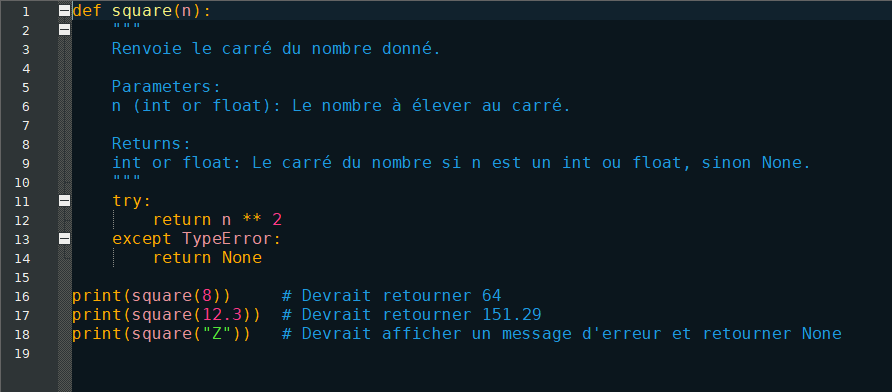
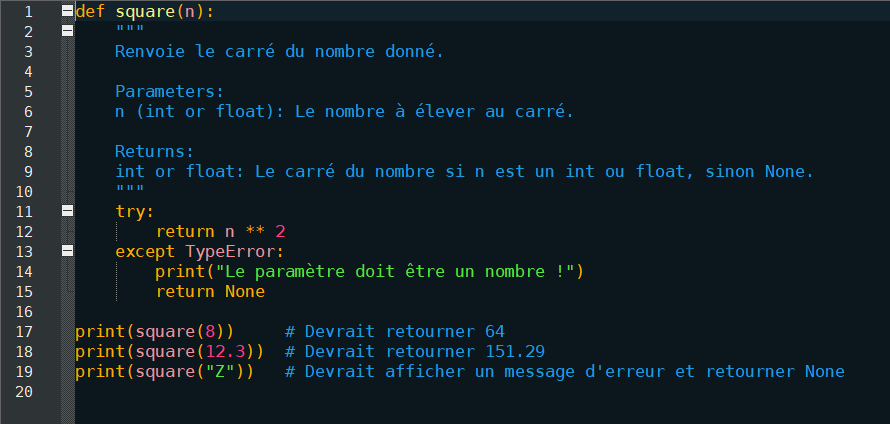
corrections

diff --git a/Exercice03/index.py b/Exercice03/index.py
@@ -1,14 +1,6 @@
 words = ["python", "programmation", "langage", "ordinateur", "apprentissage"]
-vowel_counts = []
+vowels = 'aeiou'
 
-def count_vowels(word):
-    vowels = 'aeiou'
-    count = 0
-    for letter in word:
-        if letter in vowels:
-            count += 1
-    return count
-
-vowel_counts = [(word, count_vowels(word)) for word in words]
+vowel_counts = [(word, sum(1 for letter in word if letter in vowels)) for word in words]
 
 print(vowel_counts)

diff --git a/Exercice07/index.py b/Exercice07/index.py
@@ -11,6 +11,7 @@ def square(n):
     try:
         return n ** 2
     except TypeError:
+        print("Le paramètre doit être un nombre !")
         return None
 
 print(square(8))     # Devrait retourner 64
